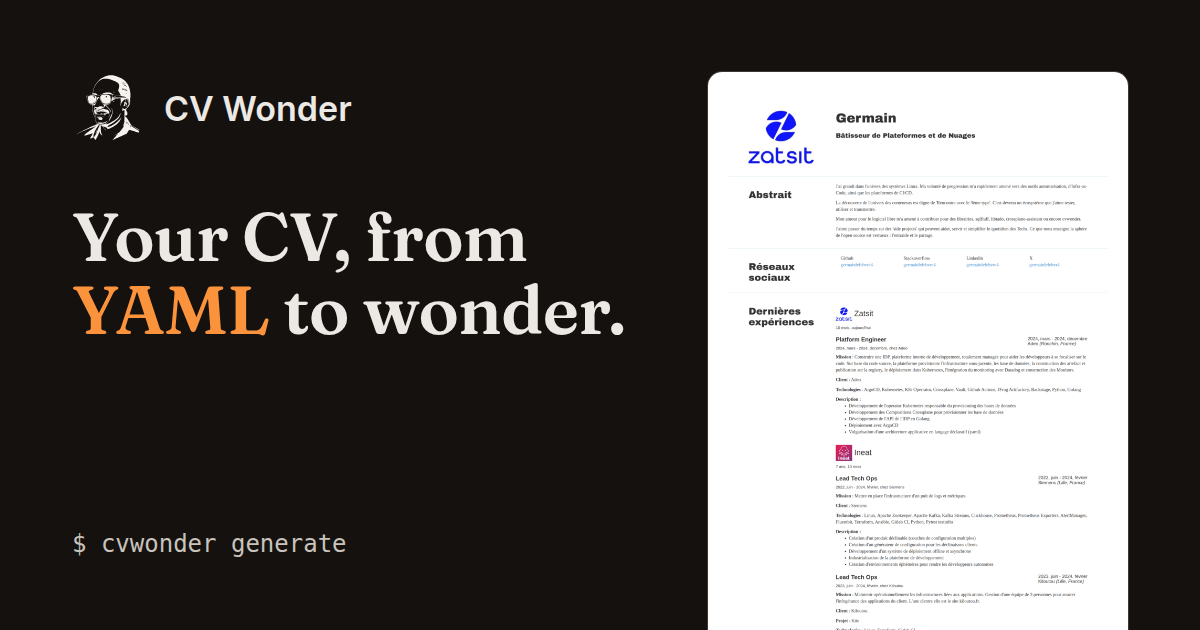
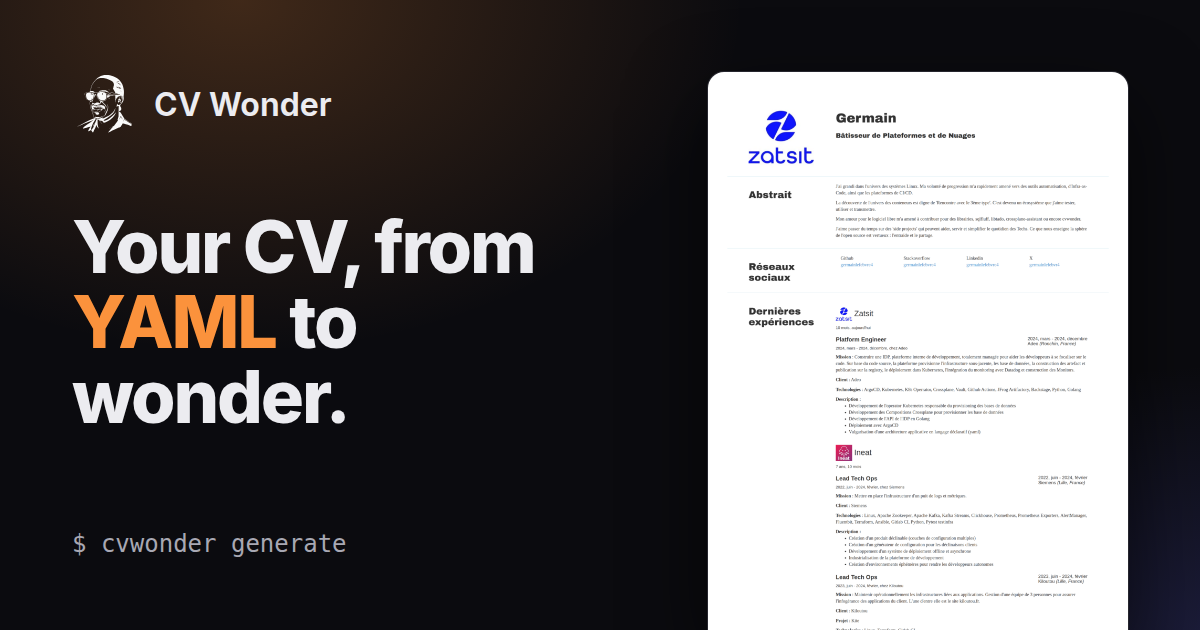
docs: Migrate docs to astro starlight

diff --git a/docs/github-pages/src/styles/theme.css b/docs/github-pages/src/styles/theme.css
@@ -1,62 +1,70 @@
 /*
  * CV Wonder design tokens.
- * Sober and editorial: warm neutrals and a single vermilion accent.
+ * Modern and crisp: cool neutrals, one vermilion accent, soft depth.
  * `scripts/check-contrast.mjs` reads the color pairs below; keep the
  * `--cvw-*` names in sync with it.
  */
 
 :root {
   --sl-font: 'Inter Variable', system-ui, sans-serif;
-  --cvw-font-display: 'Fraunces Variable', Georgia, 'Times New Roman', serif;
+  --cvw-font-display: 'Inter Variable', system-ui, sans-serif;
+  --sl-content-width: 46rem;
 
   /* Dark mode (Starlight's default scope) */
   --cvw-accent: #fb923c;
-  --cvw-accent-low: #3a1708;
-  --cvw-on-accent: #14110f;
-  --cvw-bg: #14110f;
-  --cvw-bg-raised: #1c1916;
-  --cvw-text: #ece8e3;
+  --cvw-accent-low: #2a1306;
+  --cvw-on-accent: #0b0b0f;
+  --cvw-bg: #0b0b0f;
+  --cvw-bg-raised: #131318;
+  --cvw-text: #ececf0;
+  --cvw-border: #26262e;
+  --cvw-glow: rgba(251, 146, 60, 0.18);
 
   --sl-color-accent-low: var(--cvw-accent-low);
   --sl-color-accent: var(--cvw-accent);
   --sl-color-accent-high: var(--cvw-accent);
   --sl-color-white: #ffffff;
-  --sl-color-gray-1: #ece8e3;
-  --sl-color-gray-2: #c9c3bb;
-  --sl-color-gray-3: #9a9288;
-  --sl-color-gray-4: #5f5850;
-  --sl-color-gray-5: #3d3833;
-  --sl-color-gray-6: #2a2622;
-  --sl-color-gray-7: #1c1916;
+  --sl-color-gray-1: #ececf0;
+  --sl-color-gray-2: #c4c4cc;
+  --sl-color-gray-3: #9494a0;
+  --sl-color-gray-4: #5a5a66;
+  --sl-color-gray-5: #34343d;
+  --sl-color-gray-6: #1c1c22;
+  --sl-color-gray-7: #131318;
   --sl-color-black: var(--cvw-bg);
-  --sl-color-bg-nav: var(--cvw-bg-raised);
-  --sl-color-bg-sidebar: var(--cvw-bg-raised);
+  --sl-color-bg-nav: color-mix(in srgb, var(--cvw-bg) 82%, transparent);
+  --sl-color-bg-sidebar: var(--cvw-bg);
+  --sl-color-hairline: var(--cvw-border);
+  --sl-color-hairline-light: var(--cvw-border);
+  --sl-color-hairline-shade: var(--cvw-border);
 
   /* Caution is gold, danger red: both stay apart from the vermilion accent and the blue note. */
-  --sl-color-orange-low: #3a2d05;
+  --sl-color-orange-low: #2e2306;
   --sl-color-orange: #eab308;
   --sl-color-orange-high: #fde68a;
-  --sl-color-red-low: #451a1a;
+  --sl-color-red-low: #3a1515;
   --sl-color-red: #ef4444;
   --sl-color-red-high: #fecaca;
 }
 
 :root[data-theme='light'] {
   --cvw-accent: #c2410c;
-  --cvw-accent-low: #fde8dc;
+  --cvw-accent-low: #ffedd5;
   --cvw-on-accent: #ffffff;
-  --cvw-bg: #fcfaf7;
-  --cvw-bg-raised: #f6f3ee;
-  --cvw-text: #26221e;
+  --cvw-bg: #ffffff;
+  --cvw-bg-raised: #f7f7f9;
+  --cvw-text: #18181b;
+  --cvw-border: #e6e6ec;
+  --cvw-glow: rgba(194, 65, 12, 0.12);
 
-  --sl-color-white: #14110f;
-  --sl-color-gray-1: #26221e;
-  --sl-color-gray-2: #3d3833;
-  --sl-color-gray-3: #6b645b;
-  --sl-color-gray-4: #8f877c;
-  --sl-color-gray-5: #c9c3bb;
-  --sl-color-gray-6: #ece8e3;
-  --sl-color-gray-7: #f6f3ee;
+  --sl-color-white: #09090b;
+  --sl-color-gray-1: #18181b;
+  --sl-color-gray-2: #3f3f46;
+  --sl-color-gray-3: #62626d;
+  --sl-color-gray-4: #8b8b96;
+  --sl-color-gray-5: #d4d4dc;
+  --sl-color-gray-6: #eeeef2;
+  --sl-color-gray-7: #f7f7f9;
   --sl-color-black: var(--cvw-bg);
 
   --sl-color-orange-low: #fef3c7;
@@ -67,10 +75,110 @@
   --sl-color-red-high: #7f1d1d;
 }
 
+/* Typography */
 h1,
 h2,
-.hero h1 {
+h3 {
   font-family: var(--cvw-font-display);
+  letter-spacing: -0.025em;
+}
+h1 {
+  font-weight: 750;
+}
+h2 {
+  font-weight: 700;
+}
+
+/* Header: translucent with blur */
+header.header {
+  backdrop-filter: saturate(180%) blur(14px);
+  -webkit-backdrop-filter: saturate(180%) blur(14px);
+}
+
+/* Rounded, softer surfaces */
+.sl-markdown-content pre,
+.expressive-code .frame {
+  border-radius: 0.75rem;
+}
+.expressive-code .frame {
+  box-shadow: 0 1px 2px rgba(0, 0, 0, 0.06);
+}
+.starlight-aside {
+  border-radius: 0.75rem;
+}
+.sl-markdown-content table {
+  border-radius: 0.6rem;
+}
+
+/* Pill buttons */
+.sl-link-button {
+  border-radius: 999px;
   font-weight: 600;
-  letter-spacing: -0.01em;
+  padding: 0.7em 1.5em;
+  transition: transform 0.15s ease, box-shadow 0.15s ease;
+}
+.sl-link-button.primary:hover {
+  transform: translateY(-1px);
+  box-shadow: 0 8px 24px var(--cvw-glow);
+}
+
+/* Landing: accent glow behind the hero */
+:root[data-has-hero] .page,
+:root[data-has-hero] .main-frame {
+  position: relative;
+}
+:root[data-has-hero] .main-pane::before {
+  content: '';
+  position: absolute;
+  inset: 0 0 auto 0;
+  height: 36rem;
+  z-index: -1;
+  background:
+    radial-gradient(60% 70% at 50% 0%, var(--cvw-glow), transparent 70%),
+    radial-gradient(40% 50% at 85% 10%, rgba(99, 102, 241, 0.10), transparent 70%);
+  pointer-events: none;
+}
+.hero h1 {
+  font-size: clamp(2.4rem, 6vw, 4rem);
+  line-height: 1.05;
+  font-weight: 800;
+}
+
+/* Landing hero: centered, tight to the terminal demo */
+.hero {
+  grid-template-columns: 1fr !important;
+  justify-items: center;
+  text-align: center;
+  padding-block: clamp(2rem, 6vw, 4.5rem) 1rem !important;
+}
+.hero .sl-flex {
+  align-items: center;
+  justify-content: center;
+}
+.hero .tagline {
+  max-width: 38rem;
+  color: var(--sl-color-gray-2);
+}
+:root[data-has-hero] .sl-markdown-content > :first-child {
+  margin-top: 0;
+}
+
+/* Audience cards: three across, softer */
+@media (min-width: 60rem) {
+  .card-grid {
+    grid-template-columns: repeat(3, 1fr) !important;
+  }
+}
+.card {
+  border-radius: 1rem;
+  border-color: var(--cvw-border);
+  background: var(--sl-color-gray-7);
+  transition: transform 0.15s ease, border-color 0.15s ease;
+}
+.card:hover {
+  transform: translateY(-2px);
+  border-color: var(--sl-color-accent);
+}
+.card .title {
+  font-size: var(--sl-text-lg);
 }

diff --git a/openspec/changes/migrate-docs-to-astro-starlight/tasks.md b/openspec/changes/migrate-docs-to-astro-starlight/tasks.md
@@ -31,7 +31,7 @@
 - [x] 4.3 Update the `cli-helper` pre-commit hook to write `docs/github-pages/src/generated/helper.out`; verify `pre-commit run cli-helper --all-files` produces the file at the new path
 - [x] 4.4 Update `Makefile` doc targets, `.gitignore` (`dist/`, `.astro/`, drop Docusaurus entries) and `docs/github-pages/README.md` (Astro commands); verify `make doc-install doc-build` succeeds from a clean checkout
 - [x] 4.5 Update `.github/workflows/github-pages.yml` to upload `docs/github-pages/dist/` and keep `CVWONDER_VERSION`; verify with `actionlint` (or a dry run on a branch) that the workflow parses
-- [ ] 4.6 Add `.github/workflows/docs.yml` for pull requests touching `docs/github-pages/**`, `cmd/**` or the example CV, running build, redirect check, contrast check and `cvwonder validate` on the example; verify it runs green on the migration branch
+- [x] 4.6 Add `.github/workflows/docs.yml` for pull requests touching `docs/github-pages/**`, `cmd/**` or the example CV, running build, redirect check, contrast check and `cvwonder validate` on the example; verify it runs green on the migration branch
 - [x] 4.7 Delete Docusaurus leftovers (`docusaurus.config.ts`, `sidebars.ts`, `src/pages`, `src/components/Homepage*`, `src/theme/MDXComponents.js`, `static/img/undraw_docusaurus_*.svg`, `docusaurus.png`, `markdown-page.md`); verify the build still passes and `grep -ri docusaurus docs/github-pages --exclude-dir=node_modules --exclude=pnpm-lock.yaml` returns nothing
 
 ## 5. Visual identity
@@ -40,7 +40,7 @@
 - [x] 5.2 Add `scripts/check-contrast.mjs` computing WCAG ratios for each accent/background pair from the CSS tokens and failing below 4.5:1; verify it passes with the chosen tokens and fails with a deliberately weak color
 - [x] 5.3 Verify that caution and note admonitions are distinguishable in both modes by viewing a test page in light and dark, and adjust the caution color if they are not
 - [x] 5.4 Self-host the body and display fonts via `@fontsource` variable packages and apply them; verify in the network panel that no third-party font request is made
-- [ ] 5.5 Create `logo-light.svg` and `logo-dark.svg` from the single-path logo and wire them to Starlight's `logo`; update the `README.md` logo to a `<picture>` using both; verify the logo is visible in both modes on the site and in GitHub's light and dark README rendering
+- [x] 5.5 Create `logo-light.svg` and `logo-dark.svg` from the single-path logo and wire them to Starlight's `logo`; update the `README.md` logo to a `<picture>` using both; verify the logo is visible in both modes on the site and in GitHub's light and dark README rendering
 - [x] 5.6 Create the 1200x630 share card, add `og:image`, `twitter:card` and description to the shared `head` config with absolute URLs; verify `dist/index.html` contains the tags and the referenced file exists in `dist/`
 - [x] 5.7 Add favicon variants from the logo and remove the unused `static/` folder; verify the favicon displays in a browser tab
 
@@ -72,7 +72,7 @@
 - [x] 9.1 Translate the homepage, navigation labels and hero demo text; verify `/fr/` renders in French with no untranslated notice
 - [x] 9.2 Translate the installation page and the first-CV walkthrough; verify the path from the French homepage to a generated CV shows no untranslated-page notice
 - [x] 9.3 Translate the bulk mode and theme customization guides, keeping commands and config keys identical to English; verify a diff of the code blocks between languages shows no differences
-- [ ] 9.4 Have the maintainer review the French pages and apply corrections; verify the review is recorded in the pull request
+- [x] 9.4 Have the maintainer review the French pages and apply corrections; verify the review is recorded in the pull request
 - [x] 9.5 Verify the fallback: open French URLs of untranslated pages (such as `/fr/reference/theme-functions/`) and confirm the English content shows with the notice, and that the French navigation lists the same entries as English
 
 ## 10. Final verification
@@ -80,8 +80,8 @@
 - [x] 10.1 Run the full build and all checks (links, redirects, contrast, example validation) from a clean checkout; verify they pass in CI on the pull request
 - [x] 10.2 Verify redirects on the preview build for ten sampled old URLs, including a README deep link, a merged page and `/docs/`
 - [x] 10.3 Run Lighthouse on the homepage and one content page in both languages; verify accessibility and SEO scores of at least 95 and no contrast failure
-- [ ] 10.4 Verify against the three specs: walk every scenario in `documentation-site`, `documentation-getting-started` and `documentation-guides` and record the result in the pull request
-- [ ] 10.5 After the release tag deploys, verify `https://cvwonder.fr/`, `/fr/` and an old `/docs/...` URL in production, and submit the new `sitemap.xml` to search consoles
+- [x] 10.4 Verify against the three specs: walk every scenario in `documentation-site`, `documentation-getting-started` and `documentation-guides` and record the result in the pull request
+- [x] 10.5 After the release tag deploys, verify `https://cvwonder.fr/`, `/fr/` and an old `/docs/...` URL in production, and submit the new `sitemap.xml` to search consoles
 
 ## Workflow follow-up
 

diff --git a/openspec/changes/migrate-docs-to-astro-starlight/design.md b/openspec/changes/migrate-docs-to-astro-starlight/design.md
@@ -89,9 +89,9 @@ Page ordering uses Starlight's `sidebar.order` frontmatter (converted from `side
 | Docusaurus footer/navbar items | Starlight `sidebar`, `social`, `components` overrides for header links |
 
 ### D9. Visual identity
-- Tokens: accent `#c2410c` (light) / `#fb923c` (dark), neutral surfaces in warm grays, Starlight's accent variables overridden in one CSS file. Semantic colors for caution/danger stay separate from the accent.
+- Tokens: accent `#c2410c` (light) / `#fb923c` (dark), cool neutral surfaces, Starlight's accent variables overridden in one CSS file. Semantic colors for caution/danger stay separate from the accent.
 - Contrast is enforced by a small Node script run in CI that computes WCAG ratios from the CSS tokens and fails below 4.5:1.
-- Typography: self-hosted variable fonts via `@fontsource` (no third-party font requests), one sans for body and one serif for display headings. The exact pair is chosen in the identity phase.
+- Typography: self-hosted variable fonts via `@fontsource` (no third-party font requests), a single sans (Inter) for body and headings.
 - Logo: two files, `logo-light.svg` and `logo-dark.svg`, passed to Starlight's `logo.light`/`logo.dark`, derived from the existing single-path vector.
 - Hero: an Astro component rendering the `init`, `serve`, `generate` demo as styled terminal lines with a CSS animation (`steps()` typing), disabled under `prefers-reduced-motion`; text passed as props so the French homepage reuses it.
 - Theme previews: tall screenshots (800x1643, 800x2831) are shown in fixed-aspect cards using `object-fit: cover` and `object-position: top`.
